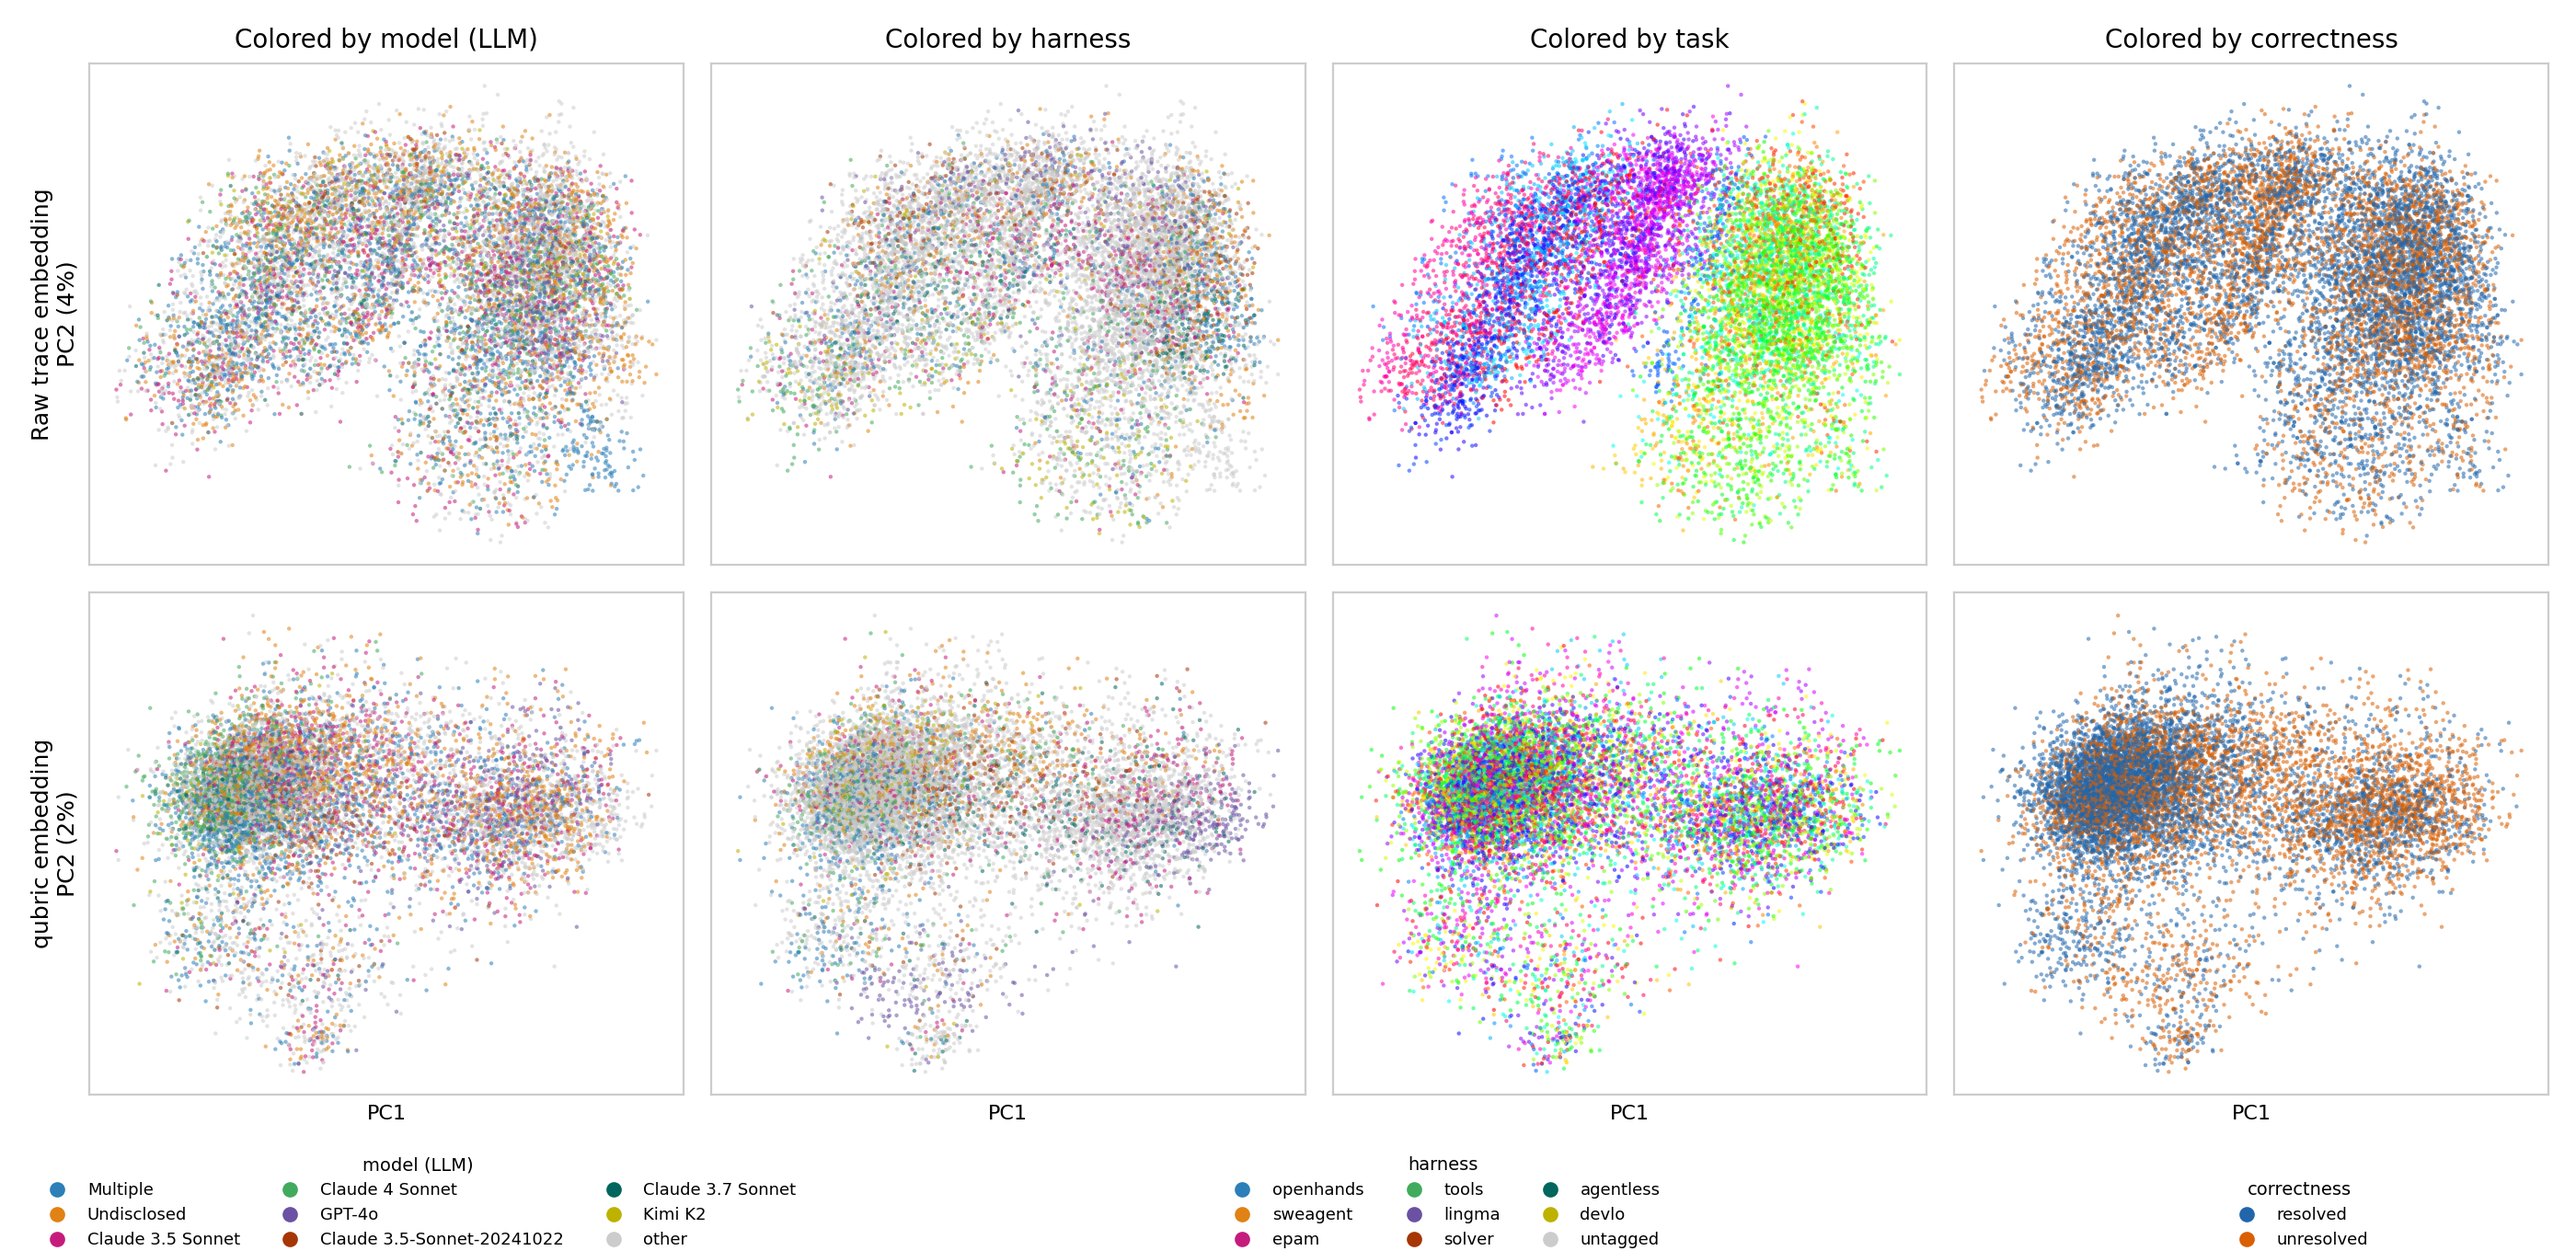
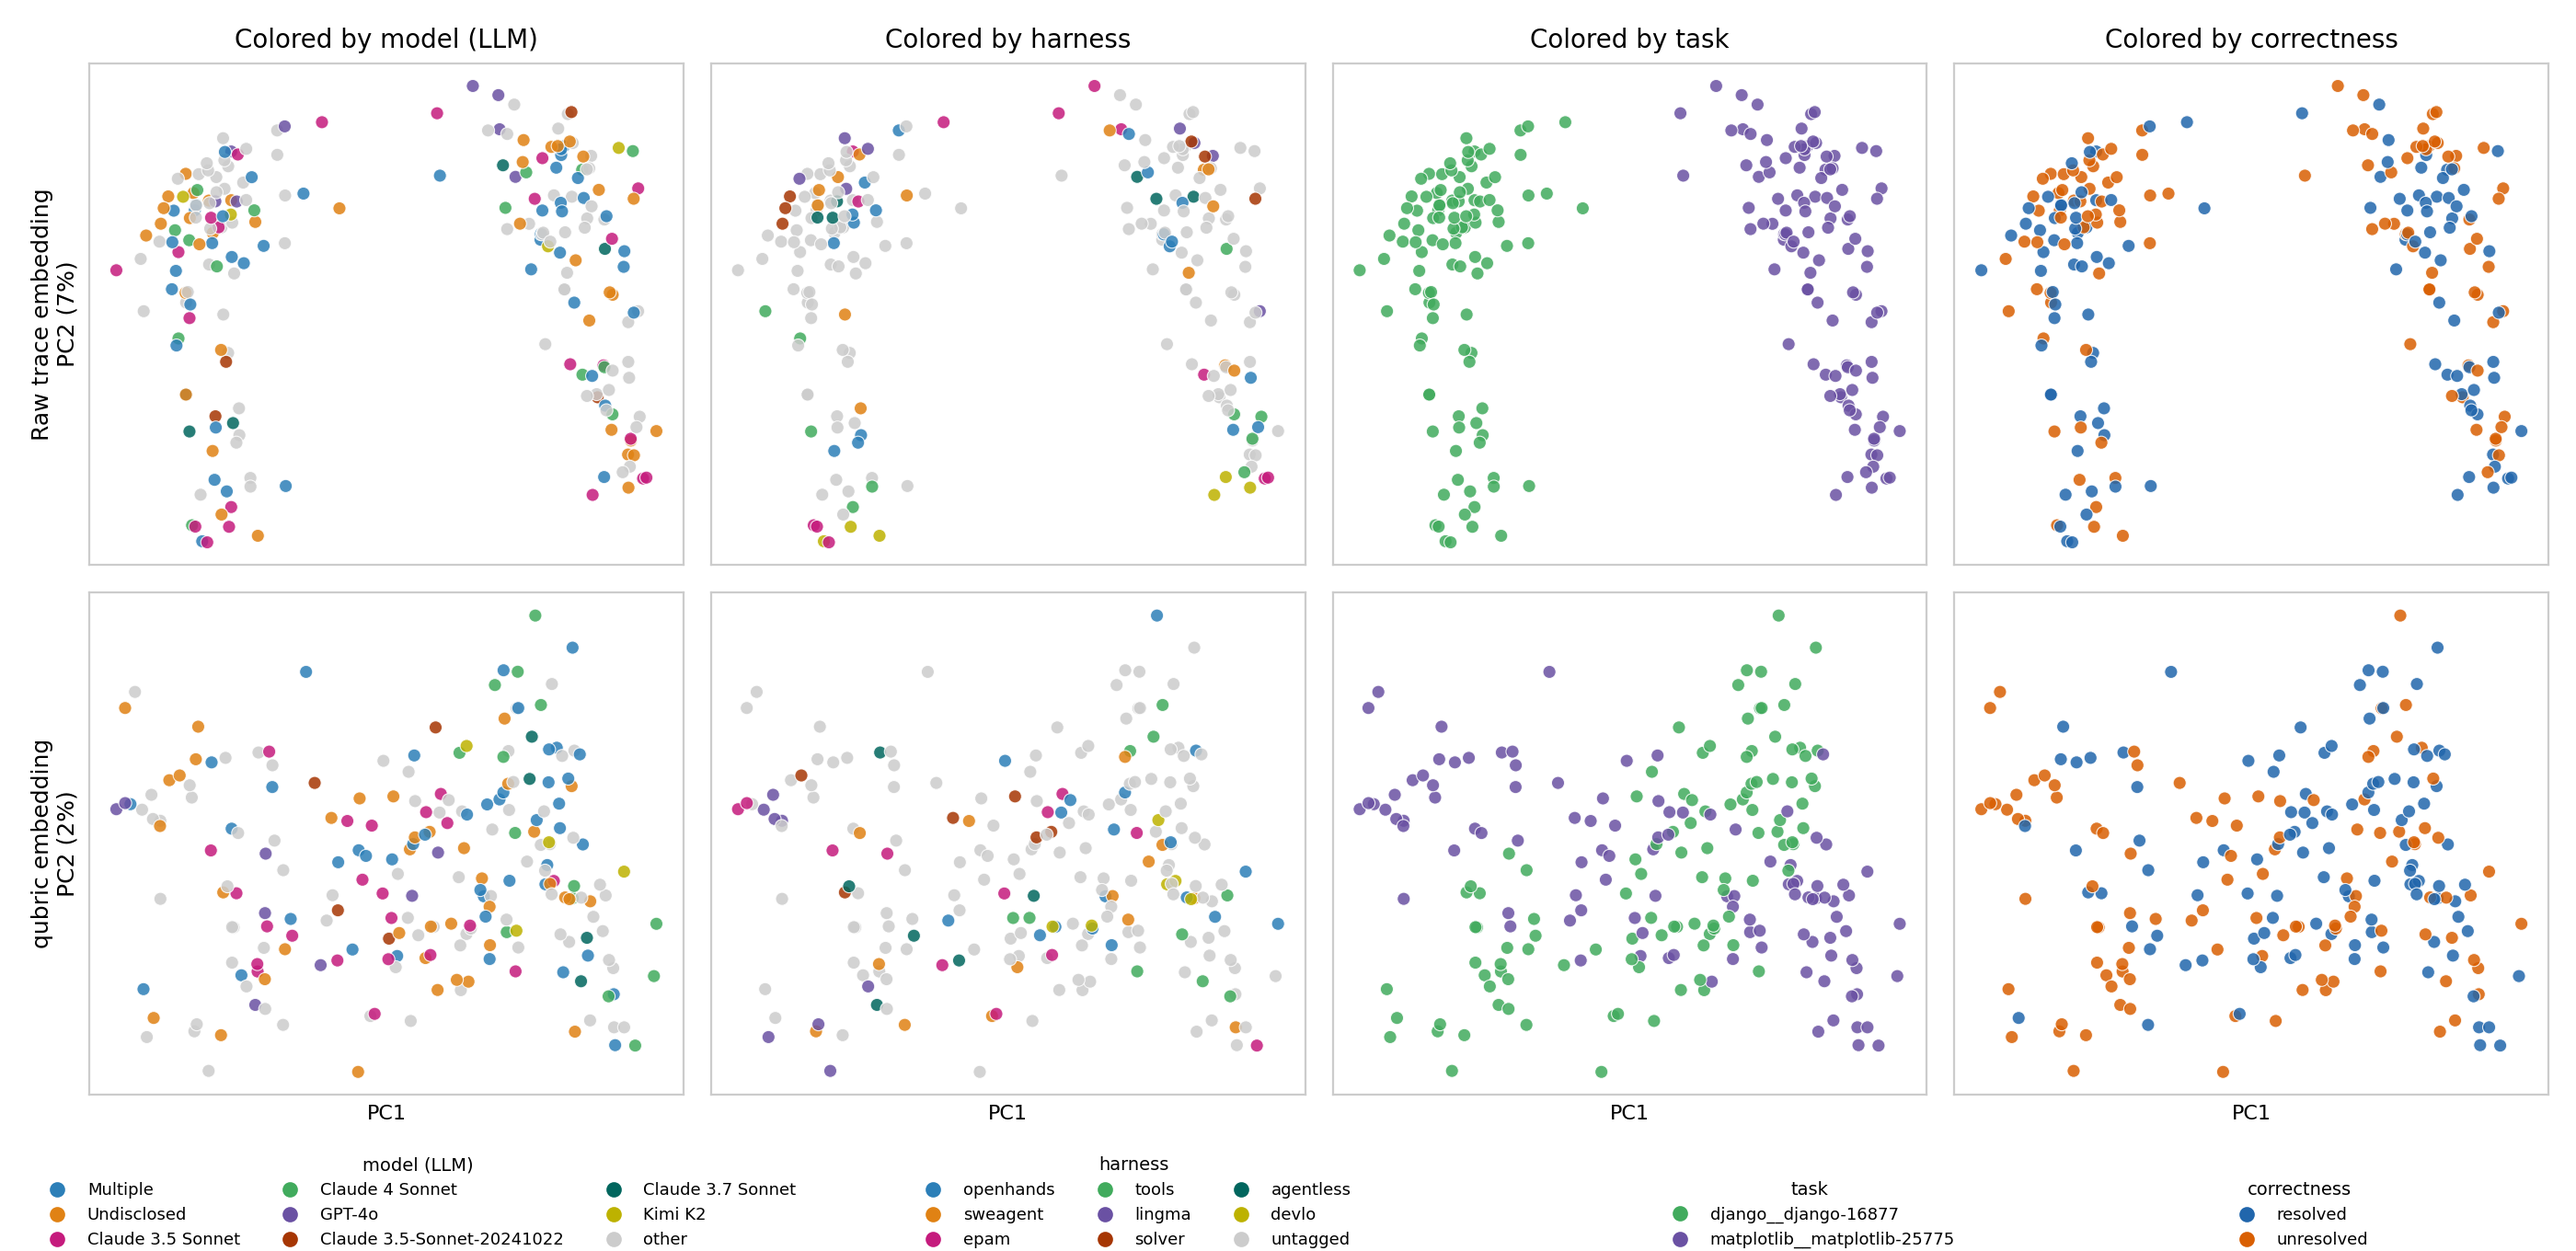
fig1: two-task 2x4 scatter (214 pts) + dumbbell/one-task alternatives
Claude-Session: https://claude.ai/code/session_01RGusFFXzoPTkSKgzzDLjNv

diff --git a/scripts/fig1_alternatives.py b/scripts/fig1_alternatives.py
@@ -1,0 +1,144 @@
+"""Two candidate replacements for the 2x4 PCA scatter (HH: 'not very
+interpretable ... rethink').
+
+A. Dumbbell chart of nearest-neighbor retrieval rates (raw -> qubric)
+   per axis, with chance ticks. Quantitative headline; numbers from
+   figures/radar_all_data_v2.json (canonical embedder text-embedding-3-small).
+   -> figures/fig1A_dumbbell.png
+
+B. Single-task scatter: one task's 107 system traces, PCA per row
+   (raw / qubric), colored by harness and by correctness. Visual
+   mechanism, no overplotting. -> figures/fig1B_onetask.png
+"""
+import json
+import sys
+
+import numpy as np
+
+sys.path.insert(0, '.')
+sys.path.insert(0, 'scripts')
+
+import matplotlib
+matplotlib.use('Agg')
+import matplotlib.pyplot as plt
+
+
+def fig_a():
+    d = json.load(open('figures/radar_all_data_v2.json'))
+    p = d['panels']['text-embedding-3-small']
+    ch = d['chance']
+    rows = [  # (key, label, group)
+        ('prov', 'same submission', 'confounder'),
+        ('scaf', 'same harness', 'confounder'),
+        ('llm', 'same underlying LLM', 'confounder'),
+        ('task', 'same task', 'content'),
+        ('outcome', 'same outcome', 'content'),
+    ]
+    fig, ax = plt.subplots(figsize=(7.2, 3.4))
+    ys = np.arange(len(rows))[::-1] * 1.0
+    ys[3:] -= 0.55  # gap between groups
+    for (k, lab, grp), yy in zip(rows, ys):
+        r, q, c = p['raw'][k], p['qubric'][k], ch[k]
+        ax.plot([r, q], [yy, yy], color='.75', lw=1.6, zorder=1)
+        ax.scatter([r], [yy], s=55, color='#555555', zorder=3,
+                   label='raw trace' if k == 'prov' else None)
+        ax.scatter([q], [yy], s=55, color='#c51b7d', zorder=3,
+                   label='qubric' if k == 'prov' else None)
+        ax.plot([c, c], [yy - .22, yy + .22], color='.3', lw=1.2, ls=':',
+                zorder=2)
+        ax.annotate('', xy=(q, yy + 0.16), xytext=(r, yy + 0.16),
+                    arrowprops=dict(arrowstyle='->', color='.55', lw=1))
+    ax.set_yticks(ys)
+    ax.set_yticklabels([r[1] for r in rows], fontsize=9)
+    ax.text(1.01, ys[1] + 0.5, 'identity\n(confounders)', fontsize=8,
+            color='.4', va='center', transform=ax.get_yaxis_transform())
+    ax.text(1.01, (ys[3] + ys[4]) / 2, 'content', fontsize=8, color='.4',
+            va='center', transform=ax.get_yaxis_transform())
+    ax.plot([], [], color='.3', lw=1.2, ls=':', label='chance')
+    ax.set_xlim(0, 1)
+    ax.set_xlabel('P(nearest neighbor shares attribute)', fontsize=9)
+    ax.legend(fontsize=8, frameon=False, loc='lower right')
+    ax.grid(True, axis='x', color='.93', lw=.6)
+    ax.set_axisbelow(True)
+    for sp in ('top', 'right', 'left'):
+        ax.spines[sp].set_visible(False)
+    fig.tight_layout()
+    fig.savefig('figures/fig1A_dumbbell.png', dpi=200)
+    print('wrote figures/fig1A_dumbbell.png')
+
+
+def fig_b():
+    import re
+    from outcome_baselines import load_panel
+    from pillars import harness_tag
+    from dkps.traces.qubric import consensus_center
+
+    systems, q100, y, B, _ = load_panel(panel='data/judge/q100.json')
+    M, Q = len(systems), len(q100)
+    harness = [harness_tag(s) for s in systems]
+    ntag = np.array([h is not None for h in harness])
+
+    raw = np.load('data/judge/q100_raw_emb_openai_small.npz')['HT'] \
+        .reshape(M, Q, -1).astype(np.float32)
+    qub = consensus_center(
+        np.load('data/judge/q100_emb_openai_small.npz')['X'],
+        np.tile(np.arange(Q), M)).reshape(M, Q, -1).astype(np.float32)
+
+    # pick the task with balanced correctness and many tagged harnesses
+    bal = -np.abs(B.mean(0) - .5)
+    t = int(np.argmax(bal))
+    print('task:', q100[t], 'resolve rate', round(float(B[:, t].mean()), 2))
+
+    def pca2(X):
+        Xc = X - X.mean(0, keepdims=True)
+        Xc /= np.maximum(np.linalg.norm(Xc, axis=1, keepdims=True), 1e-9)
+        U, S, _ = np.linalg.svd(Xc, full_matrices=False)
+        return U[:, :2] * S[:2]
+
+    Zr, Zq = pca2(raw[:, t]), pca2(qub[:, t])
+    PAL = ['#2c7fb8', '#e08214', '#c51b7d', '#41ab5d', '#6a51a3',
+           '#a63603', '#01665e', '#bdb200']
+    from collections import Counter
+    top = [k for k, _ in Counter(h for h in harness if h).most_common(8)]
+    hmap = {k: PAL[i] for i, k in enumerate(top)}
+    hcols = np.array([hmap.get(h, '#cccccc') for h in harness])
+    ccols = np.where(B[:, t] > 0, '#2166ac', '#d95f02')
+
+    fig, axes = plt.subplots(2, 2, figsize=(7.4, 6.8))
+    for r, (name, Z) in enumerate([('Raw trace embedding', Zr),
+                                   ('qubric embedding', Zq)]):
+        for c, (cname, cols) in enumerate([('by harness', hcols),
+                                           ('by correctness', ccols)]):
+            ax = axes[r, c]
+            ax.scatter(Z[:, 0], Z[:, 1], s=34, c=cols, alpha=.85,
+                       edgecolors='white', lw=.4)
+            if r == 0:
+                ax.set_title(f'Colored {cname}', fontsize=10)
+            ax.set_xticks([])
+            ax.set_yticks([])
+            for sp in ax.spines.values():
+                sp.set_color('.8')
+        axes[r, 0].set_ylabel(name, fontsize=10)
+    import matplotlib.lines as mlines
+    hs = [mlines.Line2D([], [], marker='o', ls='', ms=6, color=v, label=k)
+          for k, v in hmap.items()]
+    hs.append(mlines.Line2D([], [], marker='o', ls='', ms=6,
+                            color='#cccccc', label='untagged'))
+    fig.legend(handles=hs, loc='lower left', bbox_to_anchor=(0.03, -0.005),
+               ncol=5, fontsize=7, frameon=False)
+    fig.legend(handles=[
+        mlines.Line2D([], [], marker='o', ls='', ms=6, color='#2166ac',
+                      label='resolved'),
+        mlines.Line2D([], [], marker='o', ls='', ms=6, color='#d95f02',
+                      label='unresolved')],
+        loc='lower right', bbox_to_anchor=(0.98, -0.005), ncol=2,
+        fontsize=7, frameon=False)
+    fig.suptitle(f'One task, 107 systems ({q100[t]})', fontsize=10)
+    fig.tight_layout(rect=(0, 0.045, 1, 0.97))
+    fig.savefig('figures/fig1B_onetask.png', dpi=200)
+    print('wrote figures/fig1B_onetask.png')
+
+
+if __name__ == '__main__':
+    fig_a()
+    fig_b()

diff --git a/scripts/fig1_scatter.py b/scripts/fig1_scatter.py
@@ -1,5 +1,7 @@
-"""Figure 1 (per HH 2026-09-09): 2x4 PCA scatter of per-(system,task)
-trace embeddings on the SWE-bench q100 panel.
+"""Figure 1 (per HH 2026-09-09, rev: 'down sample to two tasks'): 2x4 PCA
+scatter of per-(system,task) trace embeddings on the SWE-bench q100 panel,
+restricted to TWO tasks (the most correctness-balanced ones) so structure
+is visible -- 214 points per panel instead of 10,700.
 
   row 1  raw off-the-shelf embeddings (head+tail 8K-token slices,
          text-embedding-3-small, L2; no centering -- the default a
@@ -8,8 +10,8 @@ trace embeddings on the SWE-bench q100 panel.
          + L2 -- the pipeline output)
   cols   PC1 v PC2 colored by: model (LLM), harness, task, correctness
 
-One PCA per row (all 10,700 traces); the four columns recolor the same
-coordinates. Writes figures/fig1_scatter.png.
+One PCA per row (fit on the two tasks' traces); the four columns recolor
+the same coordinates. Writes figures/fig1_scatter.png.
 """
 import json
 import re
@@ -46,20 +48,29 @@ def main():
     harness = [harness_tag(s) for s in systems]
 
     raw = np.load('data/judge/q100_raw_emb_openai_small.npz')['HT'] \
-        .reshape(M * Q, -1).astype(np.float32)
-    raw /= np.maximum(np.linalg.norm(raw, axis=1, keepdims=True), 1e-9)
-    qub = np.load('data/judge/q100_emb_openai_small.npz')['X'] \
-        .astype(np.float32)
-    qub = consensus_center(qub, np.tile(np.arange(Q), M))
-    qub /= np.maximum(np.linalg.norm(qub, axis=1, keepdims=True), 1e-9)
+        .reshape(M, Q, -1).astype(np.float32)
+    qub = consensus_center(
+        np.load('data/judge/q100_emb_openai_small.npz')['X'],
+        np.tile(np.arange(Q), M)).reshape(M, Q, -1).astype(np.float32)
 
-    Zr, vr = pca2(raw)
-    Zq, vq = pca2(qub)
+    # two most correctness-balanced tasks
+    bal = np.argsort(np.abs(B.mean(0) - .5))
+    t1, t2 = int(bal[0]), int(bal[1])
+    print('tasks:', q100[t1], q100[t2],
+          'resolve rates', B[:, t1].mean().round(2), B[:, t2].mean().round(2))
+    tsel = [t1, t2]
+
+    def flatten(X):
+        F = X[:, tsel].reshape(M * 2, -1)
+        return F / np.maximum(np.linalg.norm(F, axis=1, keepdims=True), 1e-9)
+
+    Zr, vr = pca2(flatten(raw))
+    Zq, vq = pca2(flatten(qub))
     print('explained var: raw', vr.round(3), 'qubric', vq.round(3))
 
-    sys_idx = np.repeat(np.arange(M), Q)
-    task_idx = np.tile(np.arange(Q), M)
-    corr = B[sys_idx, task_idx]
+    sys_idx = np.repeat(np.arange(M), 2)
+    task_idx = np.tile(np.arange(2), M)
+    corr = B[sys_idx, np.array(tsel)[task_idx]]
 
     import matplotlib
     matplotlib.use('Agg')
@@ -79,7 +90,8 @@ def main():
 
     mcols, mtop, mmap = cat_colors([model[i] for i in sys_idx])
     hcols, htop, hmap = cat_colors([harness[i] for i in sys_idx])
-    tcols = plt.get_cmap('hsv')(task_idx / Q)
+    tmap = {q100[t1]: '#41ab5d', q100[t2]: '#6a51a3'}
+    tcols = np.where(task_idx == 0, '#41ab5d', '#6a51a3')
     ccols = np.where(corr > 0, '#2166ac', '#d95f02')
 
     fig, axes = plt.subplots(2, 4, figsize=(14, 6.8))
@@ -92,9 +104,9 @@ def main():
         order = np.random.default_rng(0).permutation(len(Z))
         for c, (cname, fcol) in enumerate(cols_spec):
             ax = axes[r, c]
-            ax.scatter(Z[order, 0], Z[order, 1], s=2.5,
-                       c=np.asarray(fcol())[order], alpha=.55, lw=0,
-                       rasterized=True)
+            ax.scatter(Z[order, 0], Z[order, 1], s=26,
+                       c=np.asarray(fcol())[order], alpha=.85,
+                       edgecolors='white', lw=.4)
             if r == 0:
                 ax.set_title(cname, fontsize=10)
             ax.set_xticks([])
@@ -118,8 +130,11 @@ def main():
                bbox_to_anchor=(0.01, -0.01), ncol=3, fontsize=6.5,
                frameon=False, title='model (LLM)', title_fontsize=7)
     fig.legend(handles=handles(hmap, 'untagged'), loc='lower left',
-               bbox_to_anchor=(0.47, -0.01), ncol=3, fontsize=6.5,
+               bbox_to_anchor=(0.35, -0.01), ncol=3, fontsize=6.5,
                frameon=False, title='harness', title_fontsize=7)
+    fig.legend(handles=handles(tmap), loc='lower left',
+               bbox_to_anchor=(0.64, -0.01), ncol=1, fontsize=6.5,
+               frameon=False, title='task', title_fontsize=7)
     fig.legend(handles=[mlines.Line2D([], [], marker='o', ls='', ms=5,
                                       color='#2166ac', label='resolved'),
                         mlines.Line2D([], [], marker='o', ls='', ms=5,
